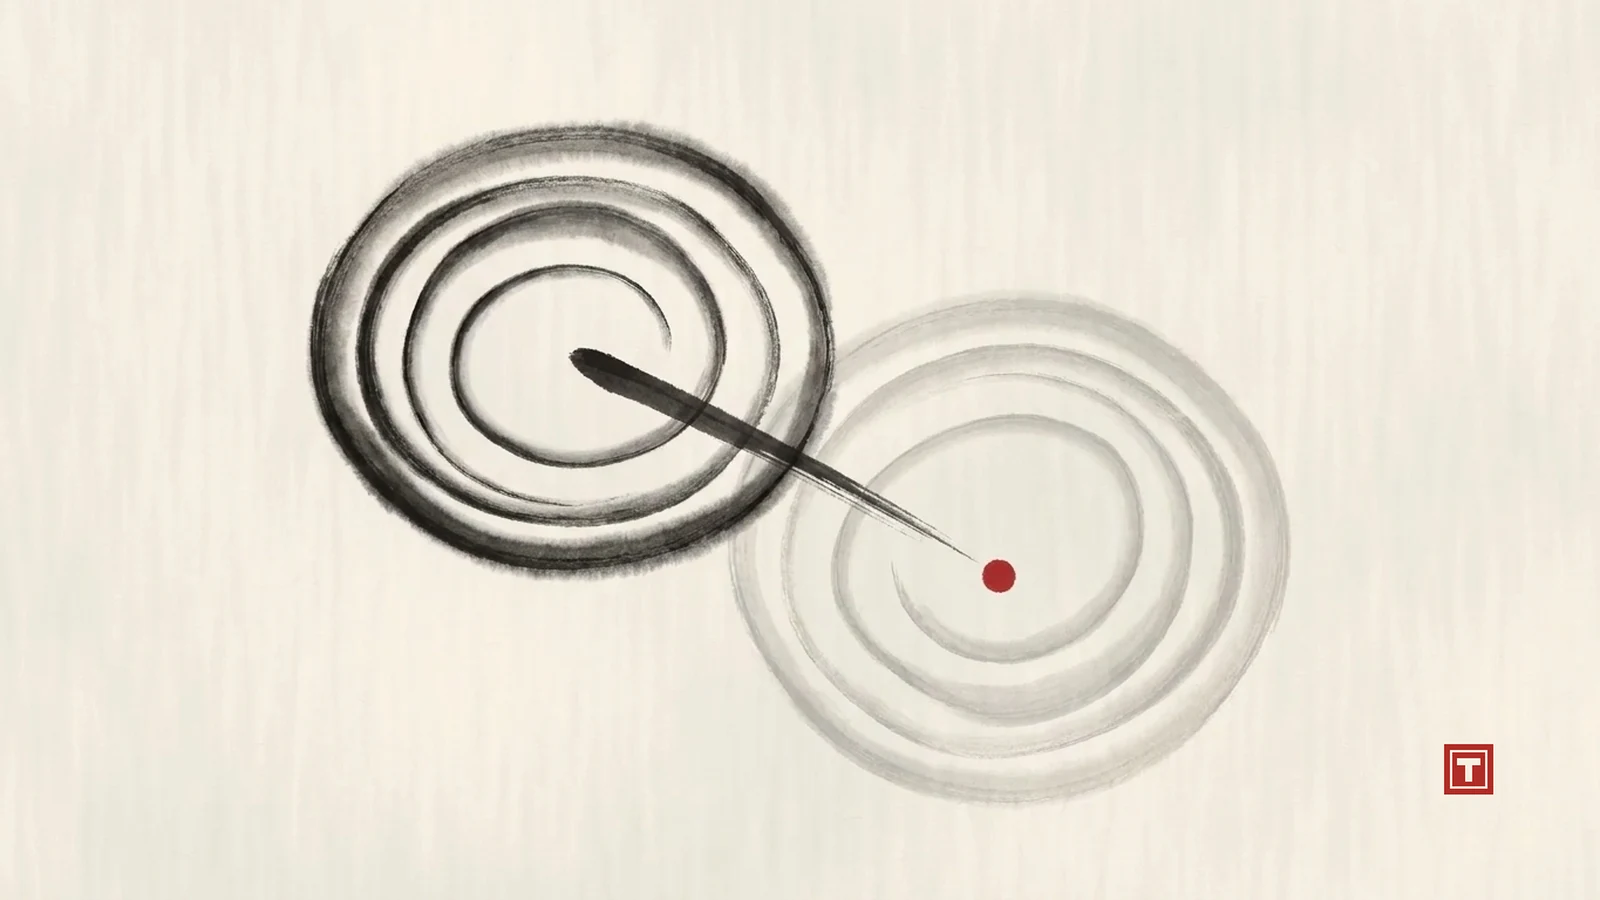
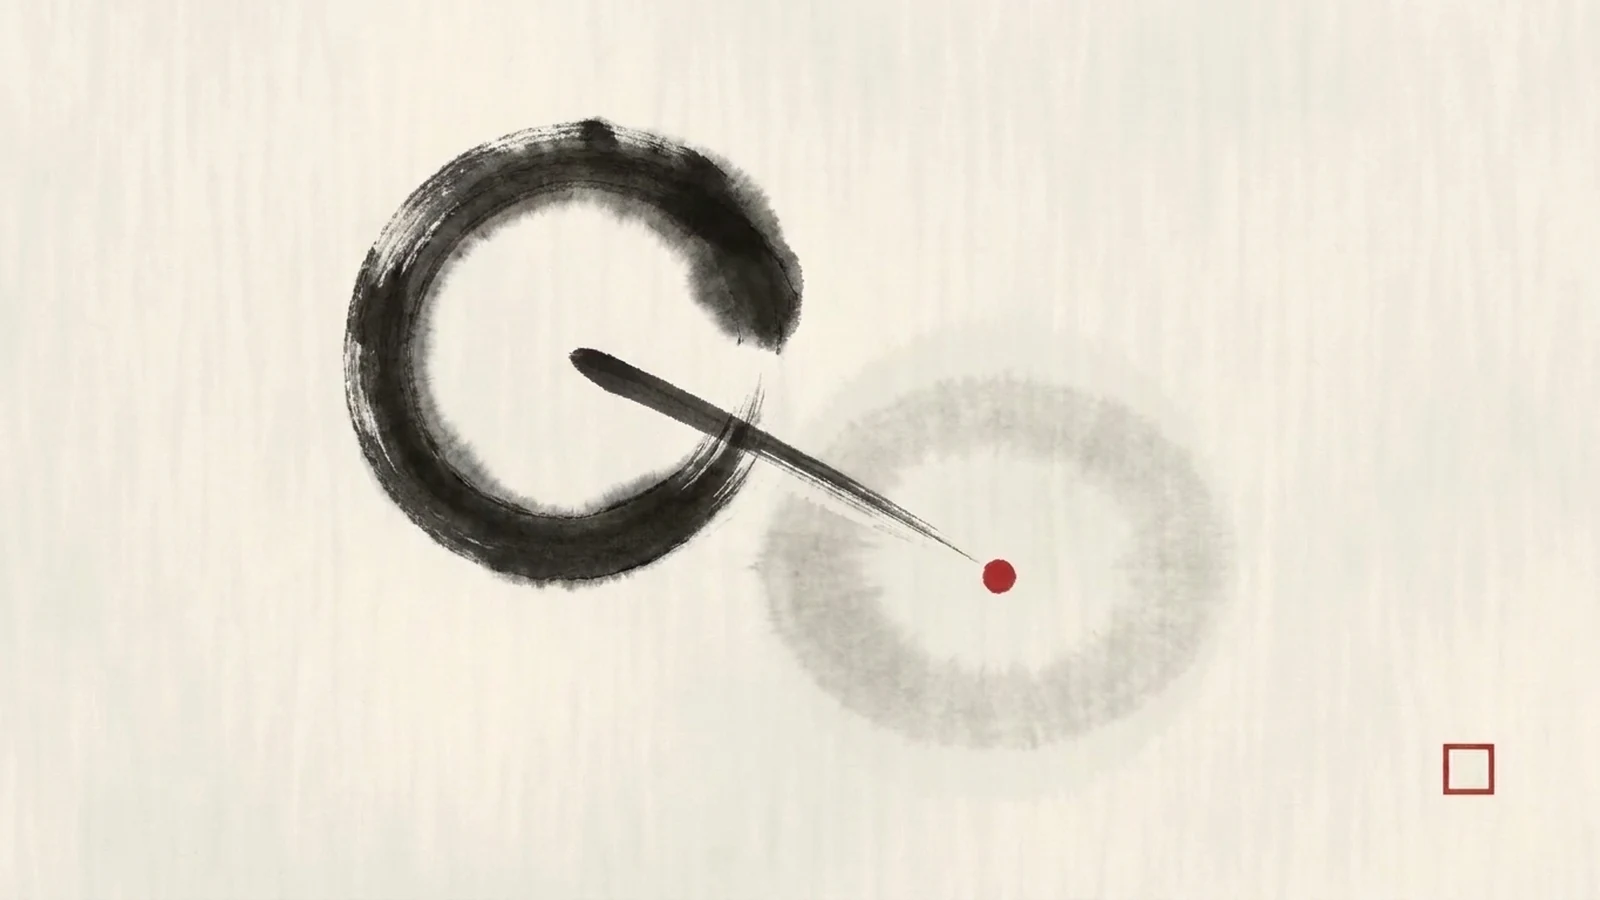
Repaint the T³ cover in ink and widen it to the figure width
- New cover in the ink series: a dark 圆相 ensō for half A, a flatter
  pale wash ring for half Q, one stroke between them ending in a red dot,
  and a hollow red seal. The 1200x630 preview image is cut from it.
- The article's cover now spans the same 840px as its summary panel and
  figures on wide screens; on phones it stays the column width.

Changed region(s): [[0.1875, 0.1244, 0.8125, 0.9022], [0.875, 0.8089, 0.9375, 0.9022]]

diff --git a/public/blog/t3.html b/public/blog/t3.html
@@ -317,6 +317,7 @@ pre.bib { font: 12.5px/1.6 var(--mono); background: var(--panel); color: var(--i
 .site-back:hover { color: var(--ink); background: var(--panel); }
 .site-back svg { width: 16px; height: 16px; }
 .post-cover { display: block; width: 100%; height: auto; aspect-ratio: 16 / 9; object-fit: cover; border-radius: 6px; box-shadow: 0 0 0 1px var(--rule); margin: 18px 0 28px; }
+@media (min-width: 900px) { .post-cover { width: var(--wide); max-width: none; margin-left: calc((var(--col) - var(--wide)) / 2); } }
 </style>
 </head>
 <body>

diff --git a/CLAUDE.md b/CLAUDE.md
@@ -113,7 +113,7 @@ on `/blog`, and at the top of each article. Covers are WebP at 1600x900 in
 Publications and talks have no images; do not add thumbnails there. `.ink-cover` in
 `src/index.css` gives the cards a hairline ring and hover scale. Covers are
 decorative (`alt=""`); titles carry the link names. Current assignments:
-batch-size 远山, RLVR 圆相, T³ 双圆（two ink basins, one stroke from the dark one to a red dot in the pale one; seal is a T drawn in code）. Keep new covers in the same series.
+batch-size 远山, RLVR 圆相, T³ 试步（a dark 圆相 ensō for half A, a flatter pale blurred ring for half Q, one stroke from the first to a red dot in the second; hollow red seal）. Keep new covers in the same series.
 
 ### Motion and interaction
 
